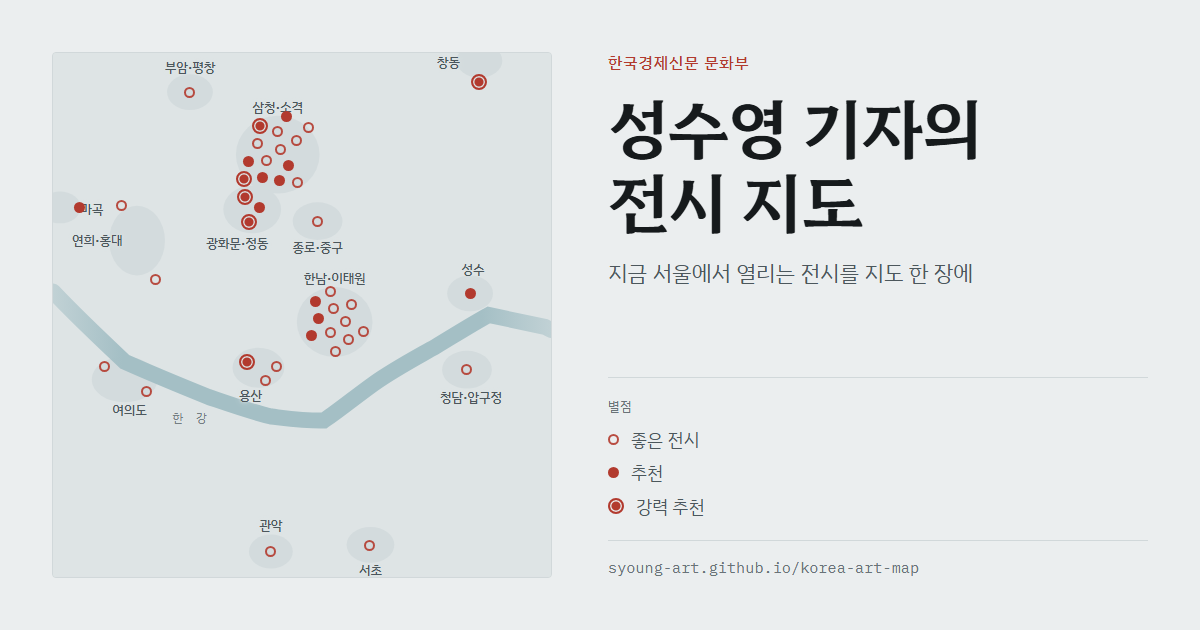
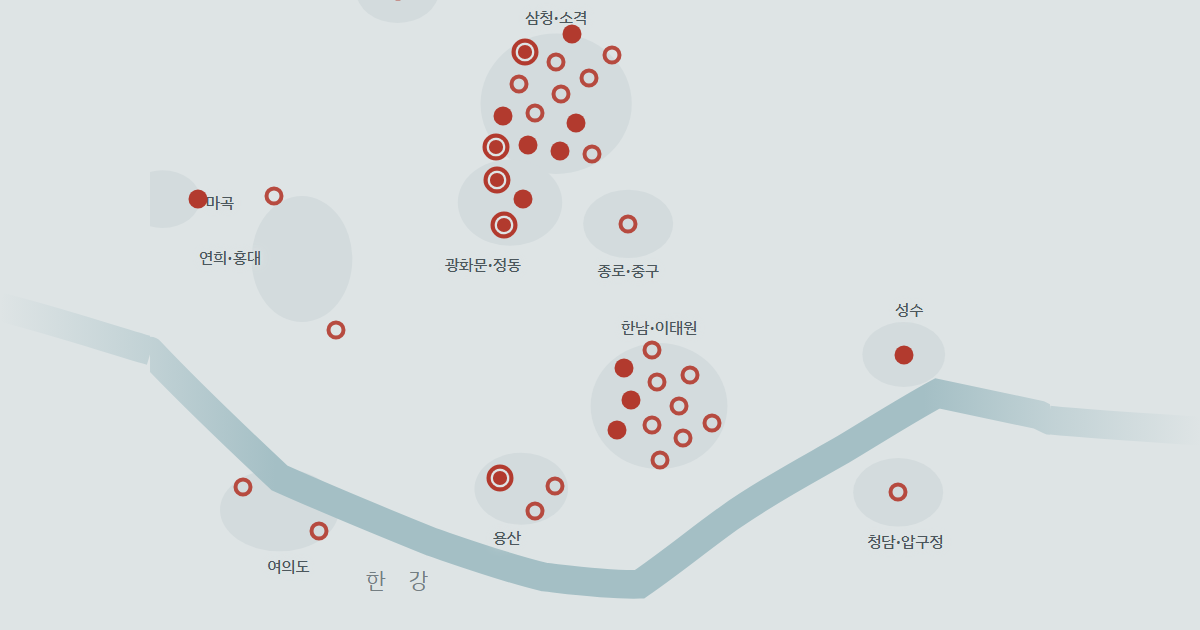
공유 썸네일을 지도 전면으로 교체 + 직접 고른 사진 자리 마련

diff --git a/index.html b/index.html
@@ -1262,7 +1262,12 @@ const markHTML = e => {
 
 /* 기사 첫 사진(한경 서버). 단독 기사 32건만 — 묶음 기사는 첫 사진이 다른 전시 것이다. */
 const PHOTOS = {"suh":"202608/01.45458019.1.jpg","conceptual":"202606/01.44770030.1.jpg","parkseobo":"202608/01.45437097.1.jpg","hamyangah":"202607/01.45265695.1.jpg","kangyobae":"202608/01.45303264.1.jpg","devlin":"202609/01.45383008.1.jpg","sunhyewon":"202609/01.45651745.1.jpg","kwoninkyung":"202608/01.45494300.1.jpg","yooyoungkuk":"202605/01.44453744.1.jpg","baselitz-sehwa":"202608/AA.45329090.1.jpg","koojeonga":"202609/AA.45548574.1.jpg","attia":"202608/01.45509880.1.jpg","iosifzon":"202608/01.45496184.1.jpg","sallyhan":"202608/01.45402603.1.jpg","atkins":"202609/01.45646522.1.jpg","sollewitt":"202609/AA.45638781.1.jpg","bapsang":"202606/01.44854991.1.jpg","chusa":"202608/01.45296132.1.jpg","consortium":"202609/01.45638139.1.jpg","banksy":"202607/01.45116380.1.jpg","cubist":"202605/AA.44341884.1.jpg","parkseobo-museum":"202608/01.45380144.1.jpg","choilala":"202609/01.45604025.1.jpg","goya":"202606/01.44819640.1.jpg","spain500":"202609/AA.45622873.1.jpg","martinparr":"202607/01.45042953.1.jpg","kaws":"202607/01.45111888.1.jpg","mmca-gwacheon":"202607/01.45006842.1.jpg","shiota":"202608/01.45498600.1.jpg","gwangju-biennale":"202609/01.45575679.1.jpg","austria-pavilion":"202609/AA.45622878.1.jpg","banghyeja":"202604/01.44115526.1.jpg"};
-const photoOf = e => PHOTOS[e.id] ? "https://img.hankyung.com/photo/" + PHOTOS[e.id] : null;
+/* 기자가 직접 고른 사진. 배포자산/photo/ 에 <전시id>.jpg 를 넣고
+   전시페이지_만들기.py를 돌리면 아래 줄이 자동으로 다시 써진다.
+   직접 고른 사진이 있으면 그것이 한경 기사 사진보다 앞선다. */
+const LOCAL_PHOTOS = {};
+const photoOf = e => LOCAL_PHOTOS[e.id] ? "photo/" + LOCAL_PHOTOS[e.id]
+  : (PHOTOS[e.id] ? "https://img.hankyung.com/photo/" + PHOTOS[e.id] : null);
 
 /* 작가 이름이 전시 제목보다 중요하다. "강요배 - 소소, 반색"처럼 한 줄로 붙인다
    (2026-09-11 기자 지시). 작가명과 전시명이 같으면 한 번만 쓴다. */
